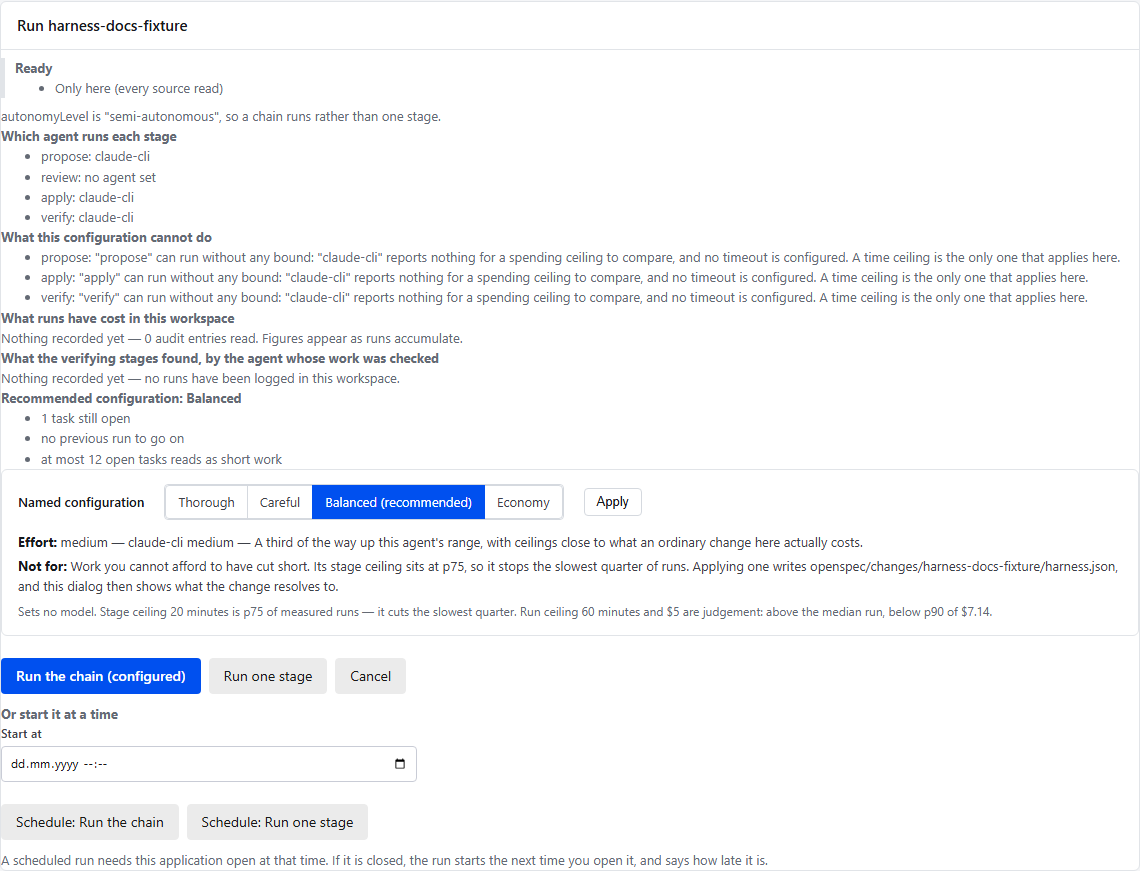
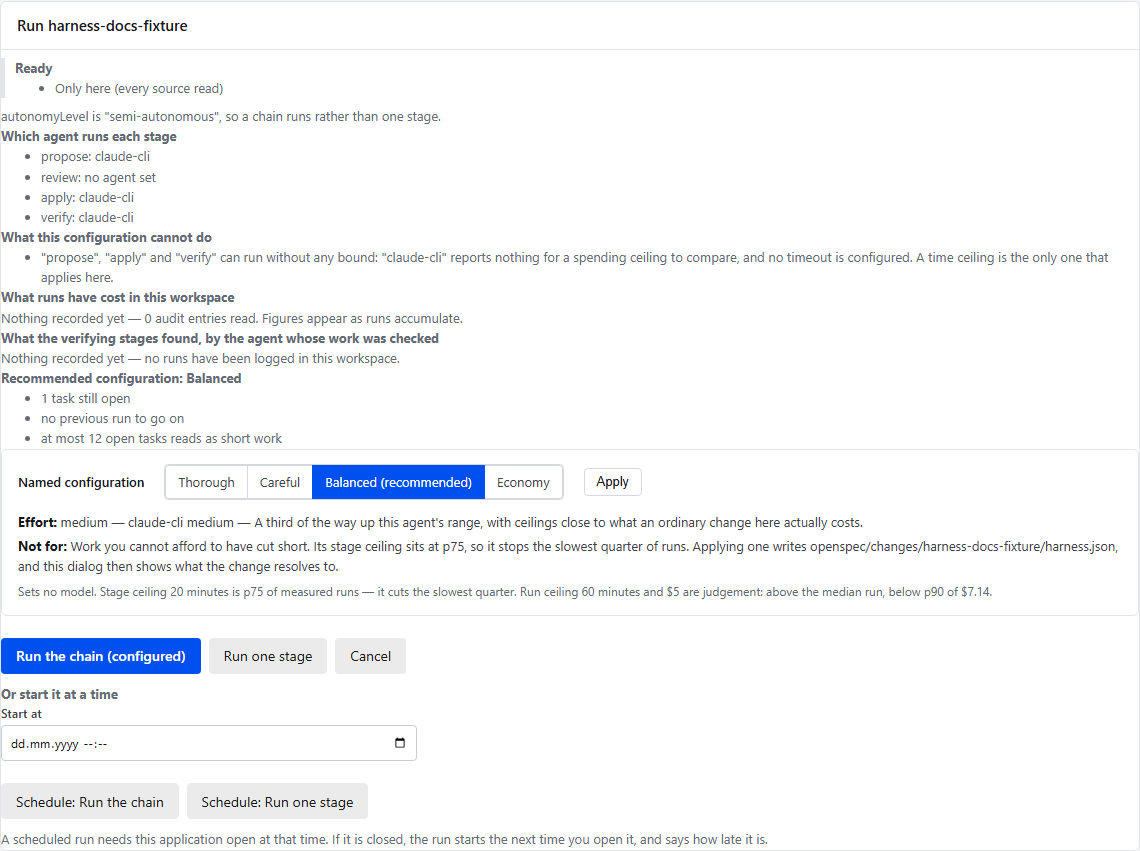
a-warning-is-said-once
Reported by a user with a screenshot of Harness settings: claude-cli on
every stage and a dollar budget gave four warning lines differing in one
word, "on "propose"", "on "review"" and so on, and the same four again in
the run dialog.

groupHarnessFindings in core says each thing once: findings of one kind
about one agent, whose words differ only in the stage they name, become
one sentence naming every stage in the order they run. The settings'
warning and the run dialog say the groups; a finding on one stage reads
as it did. findHarnessConfigLimits is unchanged for its other readers.

diff --git a/packages/core/src/harness-config-findings.test.ts b/packages/core/src/harness-config-findings.test.ts
@@ -1,6 +1,66 @@
 import { describe, expect, it } from "vitest";
-import { findHarnessConfigLimits } from "./harness-config-findings.js";
+import { findHarnessConfigLimits, groupHarnessFindings } from "./harness-config-findings.js";
 import type { HarnessConfig } from "./harness-config.js";
+
+// a-warning-is-said-once: the user's own configuration, claude-cli on every
+// stage and a dollar budget, gave four lines differing in one word.
+describe("groupHarnessFindings", () => {
+  const everyStage = {
+    propose: "claude-cli",
+    review: "claude-cli",
+    apply: "claude-cli",
+    verify: "claude-cli",
+  } as const;
+
+  it("says one thing once, naming every stage it holds on", () => {
+    const findings = findHarnessConfigLimits({
+      stepAgents: everyStage,
+      autonomyLevel: "assisted",
+      reviewGate: { mode: "human-required" },
+      budget: { maxCostUsd: 5 },
+      timeout: { maxStageSeconds: 600 },
+    });
+
+    expect(findings).toHaveLength(4);
+    expect(groupHarnessFindings(findings)).toEqual([{
+      kind: "ceiling-cannot-act",
+      agent: "claude-cli",
+      stages: ["propose", "review", "apply", "verify"],
+      message: '"claude-cli" reports no usage at all, so no spending ceiling can act on "propose", "review", "apply" and "verify" however large the spend.',
+    }]);
+  });
+
+  it("keeps apart what differs in kind or in agent, in the order the stages run", () => {
+    const findings = findHarnessConfigLimits({
+      stepAgents: { propose: "claude-cli", review: "copilot-cli-acp", apply: "claude-cli" },
+      autonomyLevel: "assisted",
+      reviewGate: { mode: "human-required" },
+      budget: { maxCostUsd: 5 },
+    });
+
+    const groups = groupHarnessFindings(findings);
+
+    expect(groups.map((group) => [group.kind, group.agent, group.stages])).toEqual([
+      ["ceiling-cannot-act", "claude-cli", ["propose", "apply"]],
+      ["stage-unbounded", "claude-cli", ["propose", "apply"]],
+      ["ceiling-cannot-act", "copilot-cli-acp", ["review"]],
+    ]);
+    expect(groups[1]?.message).toBe(
+      '"propose" and "apply" can run without any bound: "claude-cli" reports nothing for a spending ceiling to compare, and no timeout is configured. A time ceiling is the only one that applies here.',
+    );
+  });
+
+  it("leaves a single finding's words as they were", () => {
+    const findings = findHarnessConfigLimits({
+      stepAgents: { apply: "copilot-cli-acp" },
+      autonomyLevel: "assisted",
+      reviewGate: { mode: "human-required" },
+      budget: { maxCostUsd: 5 },
+    });
+
+    expect(groupHarnessFindings(findings).map((group) => group.message)).toEqual(findings.map((finding) => finding.message));
+  });
+});
 
 // settings-say-what-they-cannot-do:
 // pure over an in-memory config — no files, no processes. Measured

diff --git a/packages/core/src/harness-config-findings.ts b/packages/core/src/harness-config-findings.ts
@@ -167,6 +167,49 @@ export function findHarnessConfigLimits(config: HarnessConfig): HarnessFinding[]
   return findings;
 }
 
+/** One thing a configuration cannot do, said once for every stage it
+ * holds on. */
+export interface HarnessFindingGroup {
+  kind: HarnessFindingKind;
+  agent: string;
+  /** The stages, in the order they run. */
+  stages: HarnessStage[];
+  /** The finding's own sentence, naming every stage in it. */
+  message: string;
+}
+
+/** Findings said once each: those of one kind, about one agent, whose words
+ * differ only in the stage they name, become one sentence naming all of
+ * them.
+ *
+ * Asked for by a user on 2026-09-24: an agent on every stage that reports
+ * no usage filled the warning with four lines differing in one word, "on
+ * \"propose\"", "on \"review\"", and so on, in the settings and again in the
+ * run dialog (a-warning-is-said-once). */
+export function groupHarnessFindings(findings: readonly HarnessFinding[]): HarnessFindingGroup[] {
+  const groups: Array<HarnessFindingGroup & { template: string }> = [];
+  for (const finding of findings) {
+    const template = finding.message.split(`"${finding.stage}"`).join(STAGE_SLOT);
+    const same = groups.find((group) => group.kind === finding.kind && group.agent === finding.agent && group.template === template);
+    if (same === undefined) {
+      groups.push({ kind: finding.kind, agent: finding.agent, stages: [finding.stage], message: finding.message, template });
+      continue;
+    }
+    same.stages.push(finding.stage);
+    same.message = template.split(STAGE_SLOT).join(listOfStages(same.stages));
+  }
+  return groups.map(({ kind, agent, stages, message }) => ({ kind, agent, stages, message }));
+}
+
+/** Where a stage's name stood in a finding's words; no finding writes it. */
+const STAGE_SLOT = "{{stage}}";
+
+/** "propose", "review" and "apply", each quoted as a finding quotes one. */
+function listOfStages(stages: readonly HarnessStage[]): string {
+  const quoted = stages.map((stage) => `"${stage}"`);
+  return quoted.length <= 1 ? (quoted[0] ?? "") : `${quoted.slice(0, -1).join(", ")} and ${quoted.at(-1) as string}`;
+}
+
 /** The default agent's label, for a surface that wants to say why an
  * unset stage produced no finding. */
 export const UNSET_STAGE_AGENT_LABEL = DEFAULT_AGENT_LABEL;

diff --git a/packages/core/src/browser.ts b/packages/core/src/browser.ts
@@ -138,7 +138,7 @@ export type {
 export type { ChangeDateEvidence, ChangeDateSource, ChangeDates, DatedFact } from "./change-dates.js";
 // Pure over a resolved config, with only type imports from the Node-side
 // modules — safe in the browser bundle, unlike harness-config.js itself.
-export { findHarnessConfigLimits } from "./harness-config-findings.js";
+export { findHarnessConfigLimits, groupHarnessFindings } from "./harness-config-findings.js";
 export { agentForEveryStageToWrite, changeTemplateConfigToWrite, HARNESS_TEMPLATES, stepAgentsForTemplate, templateConfigToWrite, templatesForScope } from "./harness-templates.js";
 export { HARNESS_EFFORT_LEVELS, effortLevelCollisions, resolveEffortLevel } from "./harness-effort-level.js";
 export type { HarnessEffortLevel, ResolvedEffort } from "./harness-effort-level.js";
@@ -153,7 +153,7 @@ export { agentForChosenPath, buildRunPlan } from "./run-plan.js";
 export type { RunPath, RunPathId, RunPlan, RunPlanHost } from "./run-plan.js";
 export type { HarnessRecommendation, RecommendationInput } from "./harness-recommendation.js";
 export type { HarnessTemplate, HarnessTemplateScope } from "./harness-templates.js";
-export type { HarnessFinding, HarnessFindingKind } from "./harness-config-findings.js";
+export type { HarnessFinding, HarnessFindingGroup, HarnessFindingKind } from "./harness-config-findings.js";
 export type {
   HarnessAutonomyLevel,
   HarnessBudget,

diff --git a/packages/webui/src/components/GlobalHarnessSettingsView.test.tsx b/packages/webui/src/components/GlobalHarnessSettingsView.test.tsx
@@ -229,6 +229,27 @@ describe("GlobalHarnessSettingsView — what the configuration cannot do", () =>
     expect(screen.getByTestId("harness-findings").textContent).toContain("will be saved");
   });
 
+  // a-warning-is-said-once: a user's four lines, differing in one word.
+  it("says what holds on every stage once, naming the stages", async () => {
+    const api = createApi({
+      resolveGlobal: vi.fn().mockResolvedValue({
+        stepAgents: { propose: "claude-cli", review: "claude-cli", apply: "claude-cli", verify: "claude-cli" },
+        autonomyLevel: "assisted",
+        reviewGate: { mode: "human-required" },
+        budget: { maxCostUsd: 5 },
+        timeout: { maxStageSeconds: 600 },
+      }),
+    });
+    render(<GlobalHarnessSettingsView api={api} />);
+
+    await waitFor(() => expect(screen.getByTestId("harness-findings")).toBeTruthy());
+    const lines = screen.getByTestId("harness-findings").querySelectorAll("li");
+    expect(lines).toHaveLength(1);
+    expect(screen.getByTestId("harness-finding-propose-review-apply-verify").textContent).toBe(
+      '"claude-cli" reports no usage at all, so no spending ceiling can act on "propose", "review", "apply" and "verify" however large the spend.',
+    );
+  });
+
   it("renders nothing when every configured ceiling can act", async () => {
     const api = createApi({
       resolveGlobal: vi.fn().mockResolvedValue({

diff --git a/packages/webui/src/components/harness-settings-parts.tsx b/packages/webui/src/components/harness-settings-parts.tsx
@@ -3,6 +3,7 @@ import {
   AGENT_REGISTRY,
   autonomyLevelsFor,
   customAgentFamilyFor,
+  groupHarnessFindings,
   HARNESS_AGENT_CAPABILITIES,
   isHarnessStepAgentStage,
   normalizeStepAgent,
@@ -672,9 +673,11 @@ export function HarnessFindingsPanel({ findings }: { findings: readonly HarnessF
       <div className="openspec-callout-body">
         <h3>What this configuration cannot do</h3>
         <ul>
-          {findings.map((finding) => (
-            <li key={`${finding.kind}:${finding.stage}`} data-testid={`harness-finding-${finding.stage}`}>
-              {finding.message}
+          {/* Said once each, naming every stage it holds on: four lines that
+              differed in one word read as four problems (a-warning-is-said-once). */}
+          {groupHarnessFindings(findings).map((group) => (
+            <li key={`${group.kind}:${group.agent}:${group.stages.join("-")}`} data-testid={`harness-finding-${group.stages.join("-")}`}>
+              {group.message}
             </li>
           ))}
         </ul>

diff --git a/packages/webui/src/components/RunDialog.tsx b/packages/webui/src/components/RunDialog.tsx
@@ -1,6 +1,7 @@
 import { useEffect, useRef, useState } from "react";
 import {
   checkScheduleTime,
+  groupHarnessFindings,
   resolveEffortLevel,
   type ChangeStateKey,
   type DescribedChangeState,
@@ -191,8 +192,10 @@ export function RunDialog(
       <p className="openspec-shell-note"><strong>What this configuration cannot do</strong></p>
       {plan.findings.length > 0 ? (
         <ul className="openspec-shell-note" data-testid="run-dialog-findings">
-          {plan.findings.map((finding) => (
-            <li key={`${finding.kind}-${finding.stage}`}>{finding.stage}: {finding.message}</li>
+          {/* Said once each, naming every stage it holds on
+              (a-warning-is-said-once). */}
+          {groupHarnessFindings(plan.findings).map((group) => (
+            <li key={`${group.kind}-${group.agent}-${group.stages.join("-")}`}>{group.message}</li>
           ))}
         </ul>
       ) : (

diff --git a/openspec/changes/a-warning-is-said-once/specs/agentic-harness/spec.md b/openspec/changes/a-warning-is-said-once/specs/agentic-harness/spec.md
@@ -1,0 +1,75 @@
+## MODIFIED Requirements
+
+### Requirement: A configuration says which of its ceilings cannot act
+
+Where a configured ceiling cannot act on the agent chosen for a stage,
+the editor SHALL say so where the configuration is chosen, before a run.
+
+A ceiling that cannot fire is indistinguishable from one that has not
+fired yet, and the difference is discovered otherwise only by a bill.
+
+Where a stage's agent reports nothing and no time ceiling is configured,
+the editor SHALL report that the stage can run without any bound. This is
+the finding that matters most, because it is the one with no upper
+limit at all.
+
+Where a chain ceiling is set in a unit that no stage's agent is billed
+in, or that only agents reporting nothing are billed in, the editor SHALL
+report that ceiling as one that cannot act, naming the unit.
+
+A configuration SHALL NOT be refused for this. An operator may knowingly
+set a ceiling that binds some stages and not others; that judgement is
+theirs, and refusing would trade a real use for it.
+
+The report SHALL say each thing once. Findings of one kind about one
+agent, whose words differ only in the stage they name, SHALL be said as
+one sentence naming every stage they hold on, in the order the stages run,
+wherever findings are shown: in the settings and in the run dialog. An
+agent on every stage that reports nothing gave four lines differing in one
+word, which read as four problems (reported by a user on 2026-09-24).
+
+The report SHALL state what cannot happen and SHALL NOT recommend a
+value. What cannot act follows from what an agent reports; what to set
+instead needs history the editor does not consult here.
+
+#### Scenario: A cost ceiling over an agent that reports no cost
+
+- **WHEN** a cost ceiling is configured and a stage's agent reports only
+  tokens
+- **THEN** the editor reports that this ceiling cannot act on that stage
+
+#### Scenario: A stage with no bound at all
+
+- **WHEN** a stage's agent reports nothing and no time ceiling is set
+- **THEN** the editor reports that the stage can run without any bound
+
+#### Scenario: An agent never observed
+
+- **WHEN** a stage uses an agent whose reporting has never been observed
+- **THEN** the editor says so, rather than asserting that a ceiling will
+  or will not act
+
+#### Scenario: The configuration is still accepted
+
+- **WHEN** a configuration contains a ceiling that cannot act
+- **THEN** it is accepted, and the report is a statement rather than a
+  refusal
+
+#### Scenario: A ceiling in a unit nothing is billed in
+
+- **WHEN** the chain's budget sets a ceiling in a unit that no stage's
+  agent is billed in
+- **THEN** the editor reports that ceiling as one that cannot act, naming
+  the unit
+
+#### Scenario: The same finding on every stage
+
+- **WHEN** every stage runs an agent that reports no usage, and a dollar
+  ceiling is set
+- **THEN** one sentence says that no spending ceiling can act on
+  "propose", "review", "apply" and "verify"
+
+#### Scenario: Findings that differ
+
+- **WHEN** two stages' findings differ in kind or in agent
+- **THEN** each is said on its own

diff --git a/openspec/changes/a-warning-is-said-once/tasks.md b/openspec/changes/a-warning-is-said-once/tasks.md
@@ -1,0 +1,33 @@
+Reported by a user on 2026-09-24: four warning lines differing in one
+word, in the settings and again in the run dialog.
+
+## 1. Said once
+
+- [x] 1.1 `groupHarnessFindings` in core: one kind, one agent, the same
+  words but for the stage, said as one sentence naming every stage.
+- [x] 1.2 The settings' warning and the run dialog say the groups; one
+  stage's finding reads as it did.
+
+## 2. Checks
+
+- [x] 2.1 Tests: the user's own configuration giving four findings and one
+  sentence; findings that differ in kind or agent kept apart, in stage
+  order; a single finding's words unchanged; the settings view drawing one
+  line for four stages.
+- [x] 2.2 Live, in the standalone: the settings and the run dialog for
+  claude-cli on every stage with a dollar budget, one line each.
+  2026-09-25, this worktree with that harness written for the check and
+  restored after it: Harness settings and the run dialog each said one line,
+  "no spending ceiling can act on "propose", "review", "apply" and
+  "verify" however large the spend.".
+- [x] 2.3 `npm run typecheck && npm run lint && npm run test` at the root,
+  after `git add`, run unpiped, exit code 0. Typecheck 0, lint 0, test 0
+  (core 1912, server 493, extension 116, webui 670).
+- [x] 2.4 The extension's integration suite, and the whole standalone
+  browser suite; the regenerated pictures that show a warning kept.
+  Integration: 19 passing. Browser: 29 of 29. Kept `run-dialog.png`, whose
+  three unbounded-stage lines are now one; the settings pictures show a
+  single finding, unchanged, and were left out.
+- [x] 2.5 `openspec validate a-warning-is-said-once --strict`, and the merge
+  gate locally with `--base origin/main`. Validate: valid; the gate exit 0.
+- [x] 2.6 A changeset: core, webui, the server and the extension, patch.

diff --git a/openspec/changes/a-warning-is-said-once/proposal.md b/openspec/changes/a-warning-is-said-once/proposal.md
@@ -1,0 +1,48 @@
+## Why
+
+Reported by a user on 2026-09-24, with a screenshot of Harness settings:
+claude-cli on every stage and a $5 budget gave
+
+- "claude-cli" reports no usage at all, so no spending ceiling can act on
+  "propose" however large the spend.
+- ... on "review" ...
+- ... on "apply" ...
+- ... on "verify" ...
+
+and the same four again in the run dialog. "A lot of repetitions when it
+all is down to claude-cli not reporting spend." Four lines differing in
+one word read as four problems; there is one.
+
+## What Changes
+
+- `groupHarnessFindings` in core: findings of one kind about one agent,
+  whose words differ only in the stage they name, become one sentence
+  naming every stage, in the order the stages run: "... can act on
+  "propose", "review", "apply" and "verify" however large the spend."
+- The settings' warning and the run dialog say the groups. A finding that
+  holds on one stage reads as it did.
+- `findHarnessConfigLimits` is unchanged: its per-stage findings are what
+  the CLI's checks and other readers use.
+
+## Capabilities
+
+### New Capabilities
+
+(none)
+
+### Modified Capabilities
+
+- `agentic-harness` - findings are said once each.
+
+## Impact
+
+- `packages/core/src/harness-config-findings.ts` and its test; the
+  browser entry exports the grouping.
+- `packages/webui/src/components/harness-settings-parts.tsx` and
+  `RunDialog.tsx`, with a settings view test.
+- One requirement in `openspec/specs/agentic-harness/spec.md`.
+
+## Explicitly out of scope
+
+- **The CLI's `doctor` and `validate` output.** A terminal line per stage is
+  what a script greps; left as it is.

diff --git a/.changeset/a-warning-is-said-once.md b/.changeset/a-warning-is-said-once.md
@@ -1,0 +1,12 @@
+---
+"@openspec-ui/core": patch
+"@openspec-ui/webui": patch
+"@openspec-ui/server": patch
+"openspec-ui-vscode": patch
+---
+
+What a configuration cannot do is said once. The same finding on several
+stages, such as an agent that reports no usage on all four, was four lines
+differing in one word, in Harness settings and again in the run dialog; it
+is now one sentence naming every stage: "no spending ceiling can act on
+"propose", "review", "apply" and "verify"".
